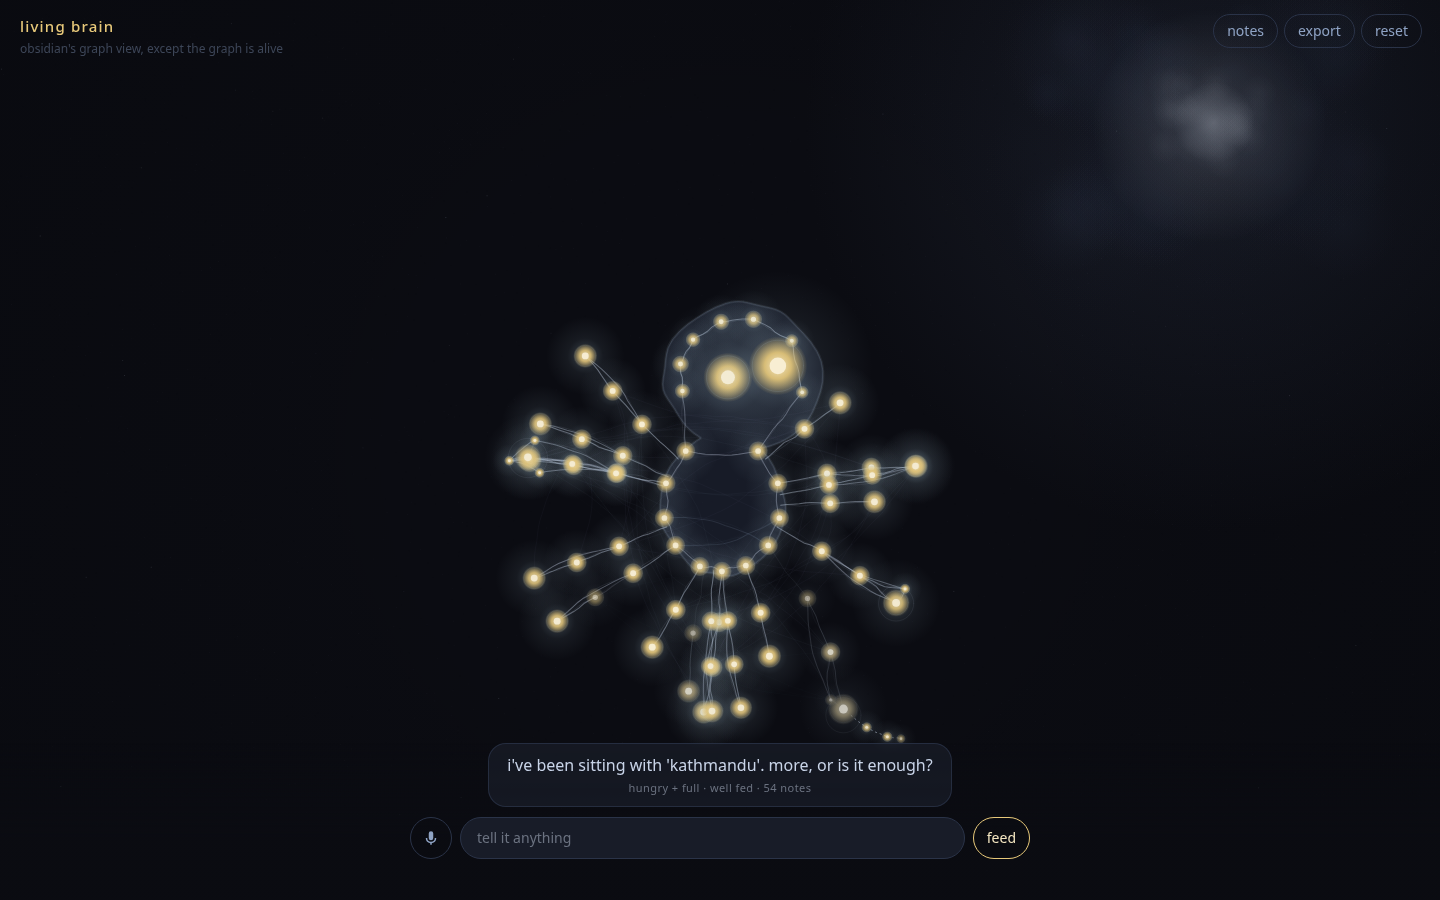
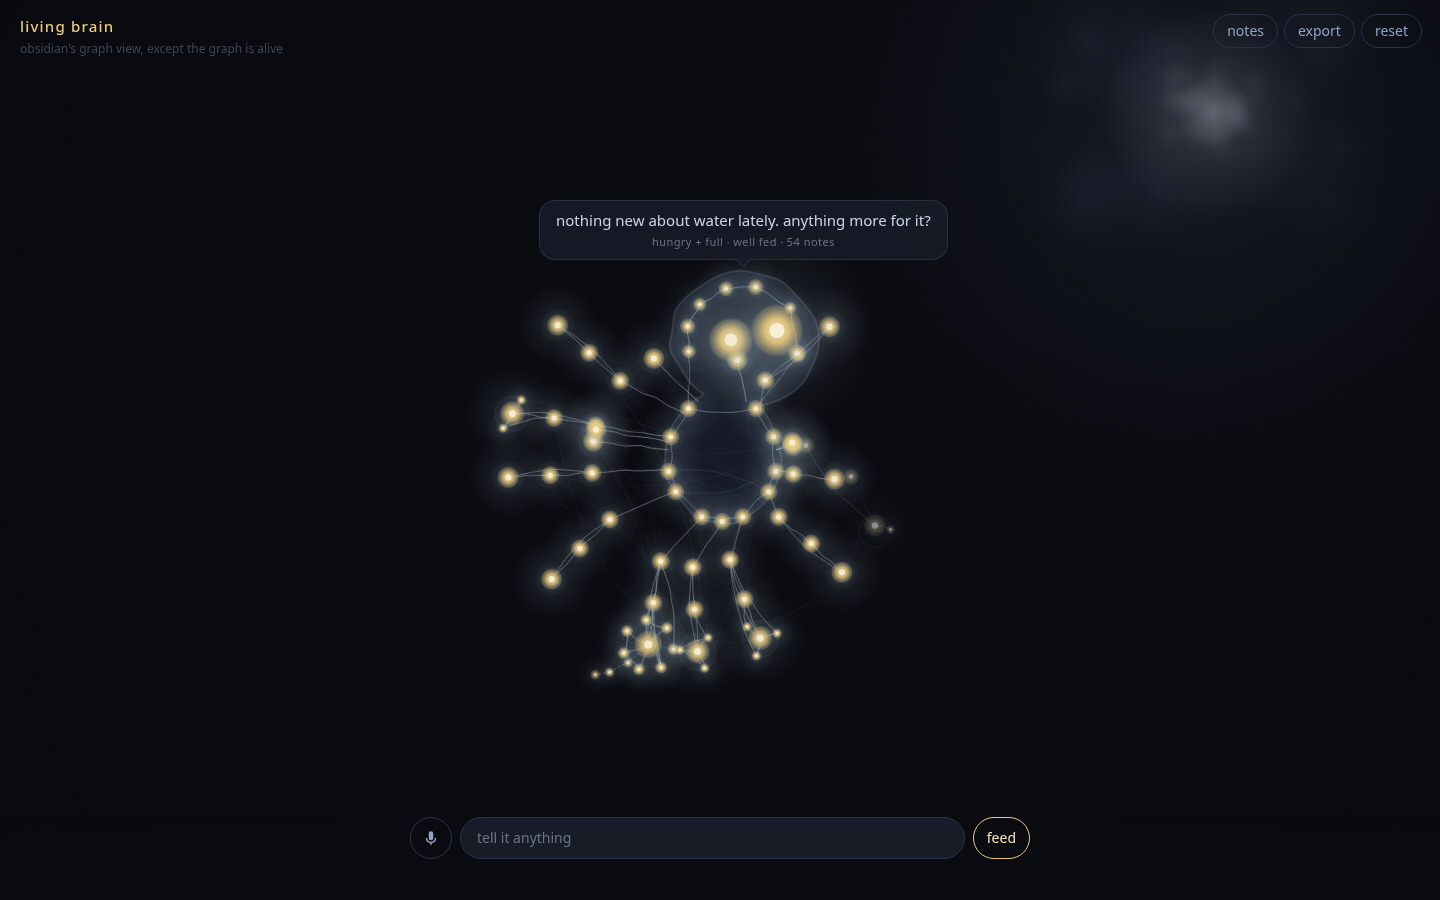
App: creature inset beside panel and dock, bubble pinned to its head, greeting only for a hatchling (by Forge)

Changed region(s): [[0.3438, 0.2178, 0.6562, 0.9022]]

diff --git a/app/app.js b/app/app.js
@@ -13,7 +13,33 @@ const ago = iso => { const d = (Date.now() - Date.parse(iso)) / 1000; return d <
 let store = emptyStore(), LINES = null, SEED = null;
 let said = { key: '', text: '' }, held = false, openId = null, judge = localJudge;
 
-const creature = createCreature($('creature'), { onNodeClick: n => openNote(n.id) });
+const creature = createCreature($('creature'), { onNodeClick: n => openNote(n.id), inset: { right: 320 } });
+
+// ---------- layout: keep the creature in the open column, bubble at its head ----------
+const PANEL_W = 320, NARROW = 760;
+const panelOpen = () => !document.body.classList.contains('panel-closed');
+function syncInset() { // viz/README.md: narrow screens have a 100vw panel and hide the dock while it is open
+  const narrow = window.innerWidth <= NARROW;
+  creature.setInset({ right: panelOpen() && !narrow ? PANEL_W : 0, bottom: document.querySelector('.dock')?.offsetHeight || 0 });
+}
+function placeBubble() {
+  const b = $('bubble'), vw = window.innerWidth, vh = window.innerHeight;
+  const covered = panelOpen() && vw <= NARROW; // the panel fills the screen
+  b.style.visibility = covered ? 'hidden' : '';
+  if (covered) return;
+  const ins = creature.getInset(), a = creature.getAnchor('head'), w = b.offsetWidth, h = b.offsetHeight, m = 12;
+  const minX = ins.left + m, maxX = vw - ins.right - m, minY = 60, maxY = vh - ins.bottom - m;
+  const anchored = !!(a && Number.isFinite(a.x) && Number.isFinite(a.y));
+  let x = anchored ? a.x - w / 2 : (minX + maxX - w) / 2;   // no anchor yet: sit on the dock
+  let y = anchored ? a.y - a.r - 14 - h : maxY - h;
+  x = Math.min(Math.max(x, minX), Math.max(minX, maxX - w));
+  y = Math.min(Math.max(y, minY), Math.max(minY, maxY - h));
+  b.classList.toggle('docked', !anchored);
+  b.style.transform = `translate(${Math.round(x)}px, ${Math.round(y)}px)`;
+}
+(function follow() { placeBubble(); requestAnimationFrame(follow); })();
+window.addEventListener('resize', syncInset);
+if (typeof ResizeObserver === 'function') new ResizeObserver(syncInset).observe(document.querySelector('.dock'));
 
 // ---------- store ----------
 function save() { try { localStorage.setItem(STORAGE_KEY, JSON.stringify(store)); } catch (e) { hint('could not save (storage full or blocked).'); } }
@@ -28,8 +54,8 @@ function refresh({ justAdded = false, lastNoteId = null, event = null, action = 
   creature.update({ ...store, hunger, now });
   if (action) held = false;
   const next = speech(store, LINES, { hunger, event, lastNoteId });
-  if (event) held = true;
-  if (event || (!held && next.key !== said.key)) said = next;
+  if (next.event) { held = true; said = next; } // a one-off line holds until the next action
+  else if (!held && next.key !== said.key) said = next;
   store = { ...store, creature: { ...store.creature, says: said.text } };
   save();
   render(hunger);
@@ -54,7 +80,7 @@ function onResolve(cId, choice) {
 function openNote(id) {
   openId = id;
   store = touch(store, id); // opening a note feeds it
-  document.body.classList.remove('panel-closed'); $('toggle-panel').setAttribute('aria-expanded', 'true');
+  document.body.classList.remove('panel-closed'); $('toggle-panel').setAttribute('aria-expanded', 'true'); syncInset();
   refresh();
 }
 
@@ -128,7 +154,7 @@ function hint(s) { $('hint').textContent = s; }
 $('entry').addEventListener('submit', e => { e.preventDefault(); const t = $('text').value; $('text').value = ''; addNote(t, 'text'); });
 $('notes').addEventListener('click', e => { const li = e.target.closest('li[data-id]'); if (li) openNote(li.dataset.id); });
 $('filter').addEventListener('input', renderList);
-$('toggle-panel').onclick = () => { const closed = document.body.classList.toggle('panel-closed'); $('toggle-panel').setAttribute('aria-expanded', String(!closed)); };
+$('toggle-panel').onclick = () => { const closed = document.body.classList.toggle('panel-closed'); $('toggle-panel').setAttribute('aria-expanded', String(!closed)); syncInset(); };
 $('reset').onclick = () => {
   if (!confirm('start over? this clears your notes in this browser and reloads the seed.')) return;
   localStorage.removeItem(STORAGE_KEY); store = fromSeed(); openId = null; said = { key: '' };
@@ -171,6 +197,7 @@ if (!SR) {
 // ---------- boot ----------
 if (location.protocol === 'file:') hint('serve the repo over http (python3 -m http.server) so the modules load.');
 if (window.innerWidth < 1000) { document.body.classList.add('panel-closed'); $('toggle-panel').setAttribute('aria-expanded', 'false'); }
+syncInset();
 const [seed, lines] = await Promise.all([
   fetch('../seed/waystone-first-meal.json').then(r => r.json()),
   fetch('../voice/waystone-lines.json').then(r => r.json()).catch(() => null),
@@ -184,6 +211,7 @@ setInterval(() => refresh(), 30_000);
 // handle for demos, tests, and a real model judge later:
 // livingBrain.setJudge(async (older, newer) => ({ verdict: 'contradicts' | 'fine', summary })) — prompt: JUDGE_PROMPT in src/brain.js
 window.livingBrain = {
+  _creature: creature,
   get store() { return store; }, get says() { return said.text; },
   addNote, confirm: onConfirm, reject: onReject, resolve: onResolve, open: openNote, refresh,
   setJudge(fn) { judge = fn || localJudge; },

diff --git a/app/style.css b/app/style.css
@@ -51,8 +51,12 @@ body.panel-closed .panel { transform: translateX(100%); }
   background: linear-gradient(to top, rgba(11,12,18,.95) 40%, rgba(11,12,18,0)); transition: right .3s; pointer-events: none; }
 body.panel-closed .dock { right: 0; }
 .dock > * { pointer-events: auto; }
-.bubble { max-width: 560px; text-align: center; color: var(--thread); font-size: 16px; padding: 10px 18px; border-radius: 18px;
-  background: rgba(26,30,42,.7); border: 1px solid rgba(42,51,72,.8); min-height: 1.5em; transition: opacity .4s; }
+.bubble { position: fixed; left: 0; top: 0; z-index: 2; width: max-content; max-width: min(420px, calc(100vw - 24px)); text-align: center; color: var(--thread); font-size: 15px;
+  padding: 9px 16px; border-radius: 16px; background: rgba(26,30,42,.78); border: 1px solid rgba(42,51,72,.9); min-height: 1.5em; pointer-events: none;
+  transition: transform .25s ease-out, opacity .4s; will-change: transform; }
+.bubble::after { content: ""; position: absolute; left: 50%; bottom: -6px; width: 10px; height: 10px; margin-left: -5px; transform: rotate(45deg);
+  background: rgba(26,30,42,.78); border: solid rgba(42,51,72,.9); border-width: 0 1px 1px 0; }
+.bubble.docked::after { display: none; }
 .bubble small { display: block; margin-top: 2px; font-size: 11px; color: var(--ash); letter-spacing: .04em; }
 .bubble .name { color: var(--gold); }
 
@@ -85,6 +89,6 @@ body.panel-closed .dock { right: 0; }
   body:not(.panel-closed) .dock { display: none; }
   .brand p { display: none; }
 }
-@media (prefers-reduced-motion: reduce) { .mic[aria-pressed="true"] { animation: none; } .panel, .dock, .top { transition: none; } }
+@media (prefers-reduced-motion: reduce) { .mic[aria-pressed="true"] { animation: none; } .bubble { transition: opacity .4s; } .panel, .dock, .top { transition: none; } }
 .detail a { color: var(--silver); text-decoration: none; border-bottom: 1px dotted var(--ash2); }
 .detail a:hover { color: var(--gold-core); }

diff --git a/app/store.js b/app/store.js
@@ -208,9 +208,11 @@ export function speech(store, lines, { hunger, event, lastNoteId, pick = Math.ra
   const L = lines || {}, c = store.creature || {}, f = c.flags || {};
   const choose = (arr, v) => fill(arr && arr.length ? arr[Math.floor(pick() * arr.length) % arr.length] : '', v);
   const title = id => low(store.notes.find(n => n.id === id)?.title);
-  if (event === 'first_meal') return { key: 'first_meal', text: choose(L.first_meal, {}) };
-  if (event === 'named') return { key: 'named', text: choose(L.naming, { name: c.name }) };
-  if (event === 'after_no') return { key: 'after_no:' + Date.now(), text: choose(L.after_no, {}) };
+  // the greeting is a hatchling's line: only when tick() says hatchling, or very few live notes
+  const hatchling = c.stage === 'hatchling' || store.notes.filter(alive).length < 8;
+  if (event === 'first_meal' && hatchling) return { key: 'first_meal', text: choose(L.first_meal, {}), event: true };
+  if (event === 'named') return { key: 'named', text: choose(L.naming, { name: c.name }), event: true };
+  if (event === 'after_no') return { key: 'after_no:' + Date.now(), text: choose(L.after_no, {}), event: true };
   const arg = nextContradiction(store);
   if (arg) { // a = older (coral), b = newer (violet); quote their own words, old first
     const txt = id => excerpt(store.notes.find(n => n.id === id)?.text);

diff --git a/app/index.html b/app/index.html
@@ -30,11 +30,12 @@
   <ul id="notes" class="notes"></ul>
 </aside>
 
+<div id="bubble" class="bubble" role="status" aria-live="polite">
+  <span id="says"></span>
+  <small id="mood"></small>
+</div>
+
 <main class="dock">
-  <div id="bubble" class="bubble" role="status" aria-live="polite">
-    <span id="says"></span>
-    <small id="mood"></small>
-  </div>
   <div id="card" class="card" hidden></div>
   <form id="entry" class="entry" autocomplete="off">
     <button type="button" id="mic" class="mic" aria-pressed="false" title="talk to it">
